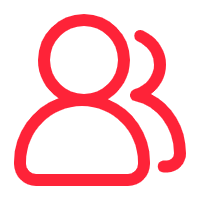
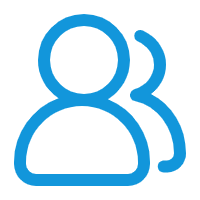
feat;0.2版本

Changed region(s): [[0.06, 0.06, 0.75, 0.93], [0.63, 0.15, 0.93, 0.87]]

diff --git a/src/pages/device/device.vue b/src/pages/device/device.vue
@@ -61,7 +61,7 @@
             </u-field>
           </view>
         </view>
-        <view class="nextStep">下一步</view>
+        <view class="nextStep" @click="handleNextStep">下一步</view>
       </view>
       <!-- 下一步-->
       <view class="init" v-if="pageStatus === 2">
@@ -106,9 +106,9 @@
         </view>
 
         <view class="step">
-          <u-button class="step-btn" type="success" :custom-style="{ backgroundColor: '#ee3d33' }">保存</u-button>
-          <u-button class="step-btn" type="primary" :custom-style="{ backgroundColor: '#ee3d33' }">写卡</u-button>
-          <u-button class="step-btn" type="primary" :custom-style="{ backgroundColor: '#ee3d33' }">上传</u-button>
+          <u-button class="step-btn" type="success" :custom-style="{ backgroundColor: '#1296db' }">保存</u-button>
+          <u-button class="step-btn" type="primary" :custom-style="{ backgroundColor: '#1296db' }">写卡</u-button>
+          <u-button class="step-btn" type="primary" :custom-style="{ backgroundColor: '#1296db' }">上传</u-button>
         </view>
       </view>
     </scroll-view>
@@ -128,7 +128,7 @@ export default defineComponent({
       registerLoading: false,
       show: true,
       content: '东临碣石，以观沧海',
-      background: { backgroundColor: '#ee3d33' }, //#fc1e37
+      background: { background: 'linear-gradient(to right,#0089cd, #00adef)' }, //#fc1e37
       mobile: '',
     })
     const count = ref(0)
@@ -145,6 +145,11 @@ export default defineComponent({
       //     await loadChatData()
     }
 
+    //下一步
+    const handleNextStep = () => {
+      pageStatus.value = 2
+    }
+
     const toRegister = () => {
       root.$Router.replace({
         name: 'index',
@@ -159,6 +164,7 @@ export default defineComponent({
       barTitle,
       toRegister,
       pageStatus,
+      handleNextStep,
     }
   },
 })
@@ -173,11 +179,11 @@ export default defineComponent({
     height: rpx(500);
     width: 100%;
     // background-image: url('../../static/image/bg2.jpg');
-    background-image: url('../../static/image/device-bg.png');
+    background-image: url('../../static/image/pb/pb4.png');
     background-size: 100%;
     background-repeat: no-repeat;
     position: absolute;
-    top: 0px;
+    top: -40px;
   }
 }
 
@@ -186,7 +192,7 @@ export default defineComponent({
   top: rpx(300);
   margin: rpx(50) rpx(50);
   padding: rpx(50);
-  box-shadow: 0px 1px 3px 3px rgba(223, 223, 223, 0.5);
+  box-shadow: 0px 1px 2px 2px rgba(223, 223, 223, 0.5);
   z-index: 999;
   position: relative;
   top: rpx(200);
@@ -199,7 +205,7 @@ export default defineComponent({
 
     &-input {
       color: rgb(0, 0, 0);
-      border: 1px solid #ee3d33;
+      border: 1px solid #1296db; // #ee3d33;
       border-bottom-style: solid;
       border-right-style: none;
       border-top-style: none;
@@ -217,7 +223,7 @@ export default defineComponent({
   margin: rpx(50) rpx(80);
   padding: rpx(20) rpx(50);
   border-radius: rpx(10);
-  background-color: #ee3d33;
+  background-color: #1296db//#ee3d33;
 }
 
 .step {
@@ -246,7 +252,7 @@ export default defineComponent({
   height: 199.7%;
   -webkit-transform: scale(0.5, 0.5);
   transform: scale(0.5, 0.5);
-  border: 0 solid #f00;
+  border: 0 solid #1296db;
   z-index: 2;
 }
 

diff --git a/src/pages/login/login.vue b/src/pages/login/login.vue
@@ -9,7 +9,7 @@
       </view>
     </view>
     <view class="form" :style="{ position: 'relative', top: '-1px' }">
-      <view class="box">
+      <view class="box animation-fade">
         <view class="input-wrapper">
           <!-- <slot name="user"></slot> -->
           <image class="phone-image" src="../../static/image/phone.svg" />
@@ -38,7 +38,7 @@
           <slot name="tips"></slot>
           <view class="">
             <button class="btn round gradient" @click="handleLogin">{{ btnText }}</button>
-            <view class="register-text">去注册</view>
+            <view class="register-text" @click="goRegisterPage">去注册</view>
           </view>
         </view>
         <view v-show="showHistory" class="history animation-fade">
@@ -106,7 +106,7 @@ export default {
     title: {
       // 标题
       type: String,
-      default: '监控船舶登陆页面',
+      default: '欢迎登陆江船零排',
     },
     props: {
       // 返回的form字段，配置选项
@@ -188,11 +188,18 @@ export default {
       this.showHistory = false
     },
     handleLogin() {
-      const { account, password } = this.props
-      this.$emit('login', {
-        [account]: this.loginForm.account,
-        [password]: this.loginForm.password,
-      })
+      // const { account, password } = this.props
+      // this.$emit('login', {
+      //   [account]: this.loginForm.account,
+      //   [password]: this.loginForm.password,
+      // })
+    },
+    goRegisterPage() {
+      setTimeout(() => {
+        this.$Router.replace({
+          name: 'register',
+        })
+      }, 100)
     },
     getProvider() {
       Service.getProvider().then((provider) => {
@@ -285,19 +292,20 @@ $font-light: #c0c4cc;
     flex-direction: column;
     image {
       width: 400rpx;
-      height: 100rpx;
+      height: 160rpx;
     }
     .title {
       font-size: 50rpx;
       color: #fff;
       margin-top: 20px;
+      font-weight: bold;
     }
   }
 }
 .form {
   padding: 0 30rpx;
   height: 10vh;
-  border-radius: 0 0 100rpx 100rpx;
+  border-radius: 0 0 50rpx 50rpx;
   background-color: $hic-login-bg-color;
   .box {
     padding: 100rpx 40rpx 30rpx;

diff --git a/src/pages/login/register.vue b/src/pages/login/register.vue
@@ -9,7 +9,7 @@
       </view>
     </view>
     <view class="form" :style="{ position: 'relative', top: '-1px' }">
-      <view class="box">
+      <view class="box animation-fade">
         <view class="input-wrapper">
           <!-- <slot name="user"></slot> -->
           <image class="phone-image" src="../../static/image/user.svg" />
@@ -77,7 +77,7 @@
           <slot name="tips"></slot>
           <view class="">
             <button class="btn round gradient" @click="handleLogin">{{ btnText }}</button>
-            <view class="register-text">去登录</view>
+            <view class="register-text" @click="goLoginPage">去登录</view>
           </view>
         </view>
         <view v-show="showHistory" class="history animation-fade">
@@ -145,7 +145,7 @@ export default {
     title: {
       // 标题
       type: String,
-      default: '监控船舶注册页面',
+      default: '欢迎注册江船零排',
     },
     props: {
       // 返回的form字段，配置选项
@@ -264,6 +264,13 @@ export default {
         [password]: this.loginForm.password,
       })
     },
+    goLoginPage() {
+      setTimeout(() => {
+        this.$Router.replace({
+          name: 'login',
+        })
+      }, 100)
+    },
     getProvider() {
       Service.getProvider().then((provider) => {
         this.oauth = provider
@@ -355,7 +362,7 @@ $font-light: #c0c4cc;
     flex-direction: column;
     image {
       width: 400rpx;
-      height: 100rpx;
+      height: 160rpx;
     }
     .title {
       font-size: 50rpx;
@@ -367,7 +374,7 @@ $font-light: #c0c4cc;
 .form {
   padding: 0 30rpx;
   height: 10vh;
-  border-radius: 0 0 100rpx 100rpx;
+  border-radius: 0 0 50rpx 50rpx;
   background-color: $hic-login-bg-color;
   .box {
     padding: 100rpx 40rpx 30rpx;

diff --git a/src/pages/me/me.vue b/src/pages/me/me.vue
@@ -119,7 +119,7 @@ page {
   &.status {
     padding-top: var(--status-bar-height);
   }
-  background-color: #f83347;
+  background-color: #1296db;
   width: 100%;
   height: 30vw;
   padding: 0 4%;
@@ -144,7 +144,8 @@ page {
       padding-left: 30upx;
       .username {
         width: 100%;
-        color: #1c4d8d; //#00fff0; //rgb(0, 253, 232);
+        color: #fff; //#00fff0; //rgb(0, 253, 232);
+        font-weight: bold;
         font-size: 40upx;
       }
       .company {
@@ -178,7 +179,7 @@ page {
   background-color: #eee;
 }
 .orders {
-  background-color: #fe2338;
+  background-color: #1296db;
   width: 100%;
   height: 11vw;
   padding: 0 4%;

diff --git a/src/pages/home/header.vue b/src/pages/home/header.vue
@@ -125,7 +125,7 @@ export default {
   props: {
     colors: {
       type: String,
-      default: 'red',
+      default: '#1296db', //优先级小于父组件的props
     },
     locations: {
       type: Object,

diff --git a/README.md b/README.md
@@ -13,6 +13,7 @@ file-saver 下载应用 saveAs(downloadLink, 'uni-chat.apk')
 
 uview-ui@1.8.5
 
+
 body {
 overflow: hidden;
 }
@@ -56,6 +57,8 @@ marginBottom:50px
 }
 ]
 }
+
+全局背景颜色：#1296db
 
 微信开发者是 dist！！！！！！
 dist
